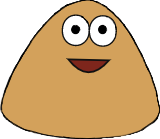
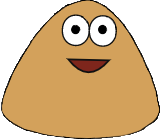
Mudando a imagem do pou

diff --git a/testeOpenCv.cpp b/testeOpenCv.cpp
@@ -135,7 +135,7 @@ void detectAndDraw( Mat& img, CascadeClassifier& cascade, double scale, bool try
     }
     
     // Desenha uma imagem
-    Mat orange = cv::imread("orange.png", IMREAD_UNCHANGED);
+    Mat orange = cv::imread("imagens/pou.png", IMREAD_UNCHANGED);
 
     if(mov.inicio){
     	//mov.alturaAtual = (smallImg.rows - orange.rows);
